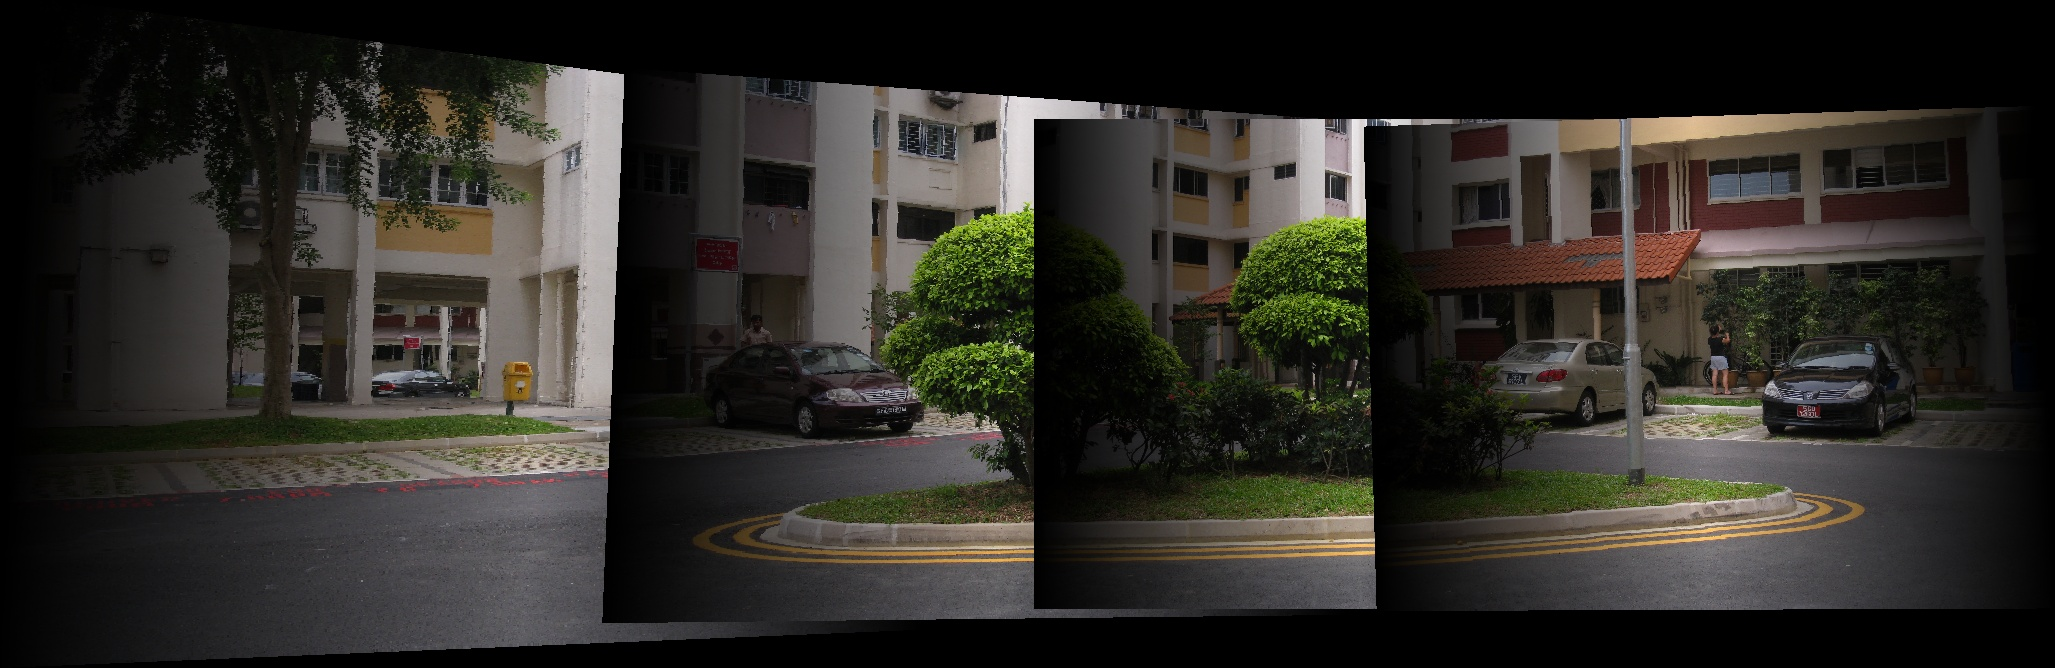
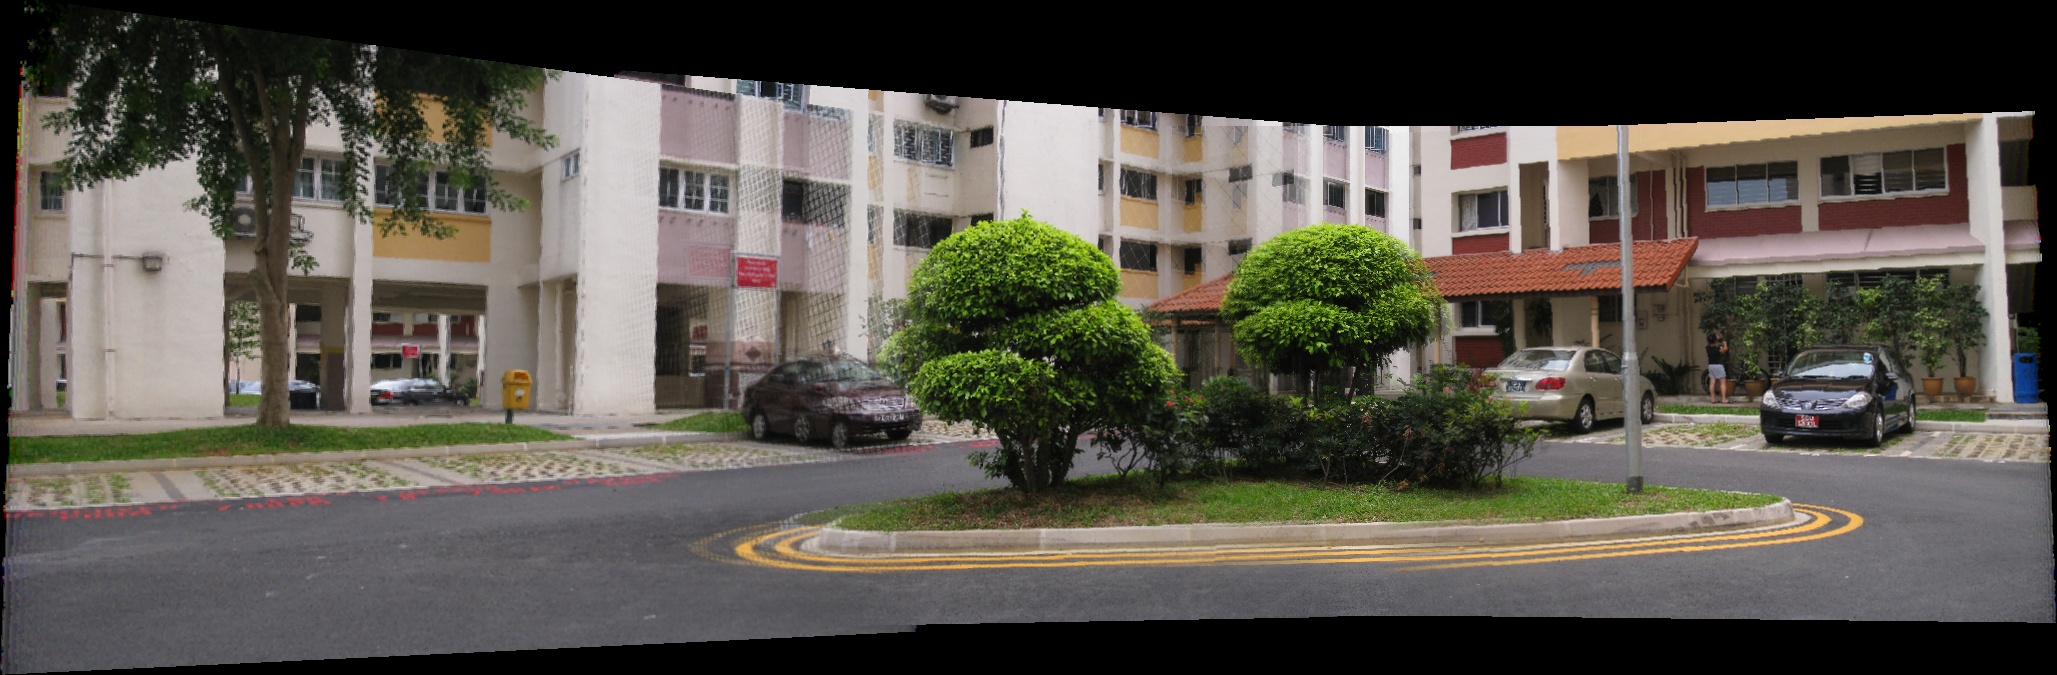
blending somewat working

diff --git a/A3/main2.py b/A3/main2.py
@@ -48,13 +48,14 @@ print('done keypoints and discriptors')
 #Finding matchings for best 'm' matching images for each image
 ##########################################################
 print('finding keymatches')
+dirr = './result/Part2'
 goodMatchings={}
 for i in range(imageNos-1):
     imgA = imagesNames[i]
     imgB = imagesNames[i+1]
     goodMatchings[(imgA,imgB)]= keyPointMatching(images, 
                         imageKeyPoints, imageDescriptors,
-                        imgA, imgB)
+                        imgA, imgB, dirr)
 print('done keymatches')
 
 ##########################################################
@@ -64,7 +65,7 @@ print('done keymatches')
 Quantized is a dict
 Quantized['da.jpg']=[imgdpt1, imgdpt2, imgdpt3...]
 '''
-def Quantize(dimages, depthNames, dlevels=10):
+def Quantize(dimages, depthNames, dlevels=5):
     # find the max depth
     for i in range(len(dimages)):
         if i == 0:
@@ -79,8 +80,10 @@ def Quantize(dimages, depthNames, dlevels=10):
     return dimages
 
 dimages = Quantize(dimages,depthNames)
-print(dimages[depthNames[0]])
+# print(dimages[depthNames[0]])
 # cv.imshow("Quantized image", dimages[depthNames[0]])
 # cv.waitKey(0)
+
+
 
 sys.exit()

diff --git a/A3/helper.py b/A3/helper.py
@@ -206,7 +206,7 @@ def drawOnCanvas(canvas, img, H, offset, fill, weightDic=None):
                 c = np.full((fill, fill, 3), img[i,j])
 
             try:
-                canvas[y:y+fill, x:x+fill] = c.astype(np.uint16)# to reduce tearing
+                canvas[y:y+fill, x:x+fill] += c.astype(np.uint16)# to reduce tearing
                 # adding weight as weightDic[col, row] if weightDic provided
                 if weightDic != None: # if we have been provided weightDic (not None)
                     # print(weight)
@@ -231,12 +231,4 @@ def divideWeight(canvas, weightDic):
     for key in weightDic.keys():
         x, y = key
         weight = weightDic[(x, y)]
-        if (x==0 and y==0):
-            print ('x,y',x,y)
-            print('w', weight)
-            print('prev', canvas[y, x])
-        canvas[y, x] /= weight
-        if (x==0 and y==0):
-            print('post', canvas[y, x])
-            sys.exit()
-
+        canvas[y, x] = (canvas[y, x]/weight).astype(np.uint16)

diff --git a/A3/main1.py b/A3/main1.py
@@ -110,7 +110,7 @@ for pathI in paths:
         print('drawn', imagesNames[i])
 
     # divide by weights at each pixel
-    # divideWeight(canvas, weightDic)
+    divideWeight(canvas, weightDic)
     canvas = canvas.astype(np.uint8)
 
 
